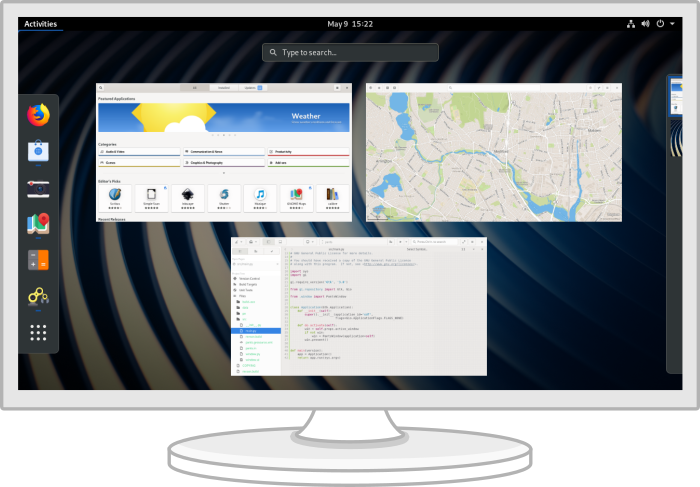
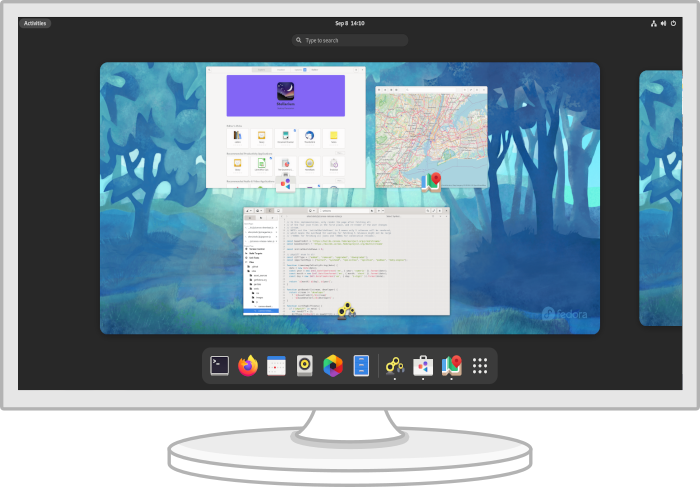
updated GNOME screenshot

diff --git a/sites/getfedora.org/site/workstation/index.html b/sites/getfedora.org/site/workstation/index.html
@@ -46,7 +46,7 @@
           <h3 class="font-weight-light pb-4 text-center text-lg-left">{% trans trimmed %}Sleek User Interface.{% endtrans %}</h3>
           <h5 class="font-weight-light">
             {% trans trimmed %}
-            Focus on your code in the GNOME 3 desktop environment. GNOME is built with developer feedback and minimizes distractions, so you can concentrate on what's important.
+            Focus on your code in the GNOME 40 desktop environment. GNOME is built with developer feedback and minimizes distractions, so you can concentrate on what's important.
             {% endtrans %}
           </h5>
         </div>
